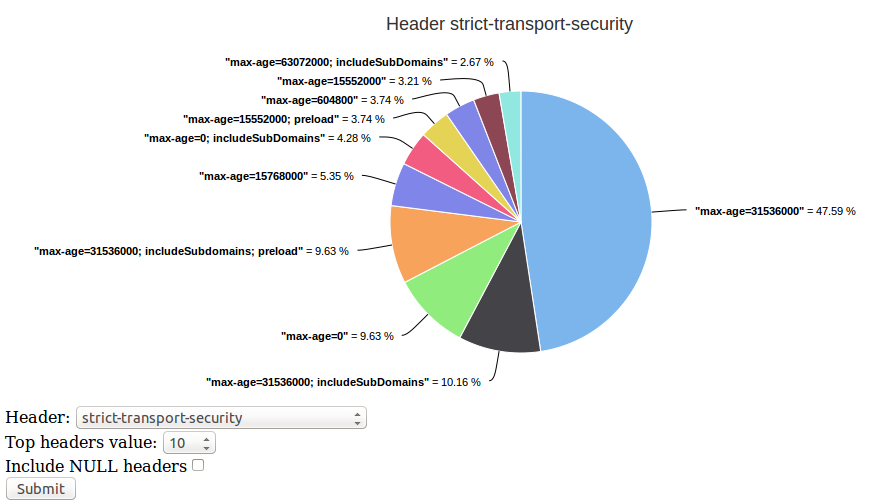
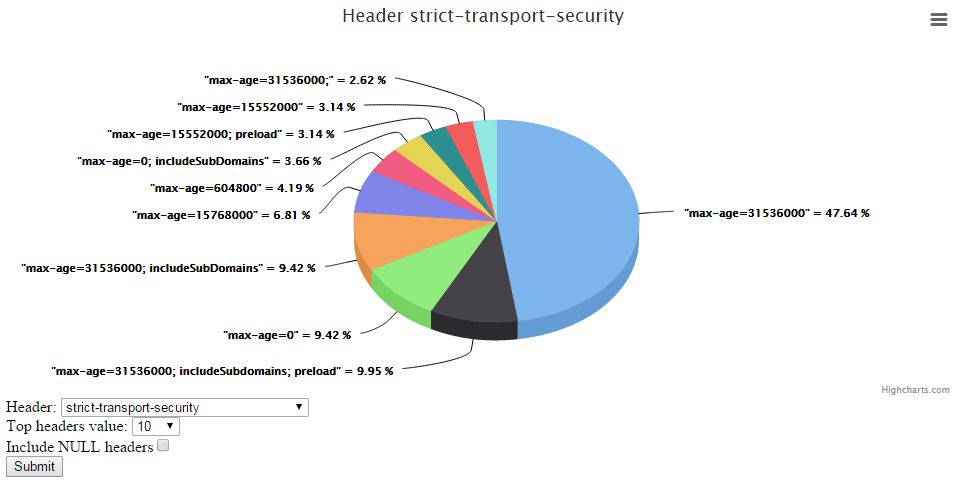
Committing

diff --git a/www/index.php b/www/index.php
@@ -1,30 +1,33 @@
-<!DOCTYPE HTML>
 <html>
-    <head>
-        <meta http-equiv="Content-Type" content="text/html; charset=utf-8">
-        <title>Headers</title>
-        <script type="text/javascript" src="js/jquery-1.11.1.min.js"></script>
-        <script type="text/javascript">
-        $(document).ready(function() {
-            var options = {
-                chart: {
-                    renderTo: 'container',
-                    plotBackgroundColor: null,
-                    plotBorderWidth: null,
-                    plotShadow: false
-                },
-                title: {
-                    text: 'Header <?php echo $_GET["header"] ?>'
-                },
-                tooltip: {
-                    formatter: function() {
-                        return '<b>'+ this.point.name +'</b> = '+ this.point.y;
-                    }
-                },
-                plotOptions: {
-                    pie: {
-                        allowPointSelect: true,
-                        cursor: 'pointer',
+	<head>
+		<meta http-equiv="content-type" content="text/html; charset=UTF-8">
+		<title>Headers</title>
+		<script type="text/javascript" src="//code.jquery.com/jquery-1.9.1.js"></script>
+		<script type="text/javascript">
+
+$.getJSON('data.php?header=<?php echo $_GET["header"] ?>&limit=<?php if ( $_GET["limit"] == '' ) { echo 10; } else { echo $_GET["limit"]; } ?>&includenull=<?php echo $_GET["includenull"] ?>', function (data) {
+    $('#container').highcharts({
+        chart: {
+            type: 'pie',
+            options3d: {
+                enabled: true,
+                alpha: 45,
+                beta: 0
+            }
+        },
+        title: {
+            text: 'Header <?php echo $_GET["header"] ?>'
+        },
+        tooltip: {
+		formatter: function() {
+			return '<b>'+ this.point.name +'</b> = '+ this.point.y;
+		}
+        },
+        plotOptions: {
+            pie: {
+                allowPointSelect: true,
+                cursor: 'pointer',
+                depth: 35,
 	                point: {
 	                    events: {
 	                        click: function () {
@@ -40,30 +43,23 @@
                                 return '<b>'+ this.point.name.substring(0, 100) +'</b> = '+ this.percentage.toFixed(2) +' %';
                             }
                         }
-                    }
-                },
-                series: [{
-                    type: 'pie',
-                    name: 'Browser share',
-                    data: []
-                }]
             }
-           
-            $.getJSON("data.php?header=<?php echo $_GET["header"] ?>&limit=<?php if ( $_GET["limit"] == '' ) { echo 10; } else { echo $_GET["limit"]; } ?>&includenull=<?php echo $_GET["includenull"] ?>", function(json) {
-                options.series[0].data = json;
-                chart = new Highcharts.Chart(options);
-            });
-           
-           
-           
-        });  
-        </script>
-        <script src="js/highcharts.js"></script>
-        <script src="js/modules/exporting.js"></script>
-    </head>
-    <body>
-        <div id="container" style="min-width: 400px; height: 400px; margin: 0 auto"></div>
+        },
+        series: [{
+            type: 'pie',
+            name: 'Headers',
+            data: data
+        }]
+    });
+});
 
+		</script>
+	</head>
+	<body>
+		<script src="https://code.highcharts.com/highcharts.js"></script>
+		<script src="https://code.highcharts.com/highcharts-3d.js"></script>
+		<script src="https://code.highcharts.com/modules/exporting.js"></script>
+		<div id="container" style="height: 400px" data-highcharts-chart="0"></div>
 
 Header: <select name="header" form="header" value="content-type">
 <?php
@@ -108,5 +104,5 @@ mysql_close($con);
   <input type="submit" value="Submit">
 </form>
 
-</body>
+	</body>
 </html>
